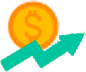
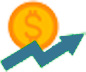
Remodelaçãod e backgrond e paleta de cores

Changed region(s): [[0.0, 0.4444, 0.9767, 1.0]]

diff --git a/index.html b/index.html
@@ -81,32 +81,50 @@
         Os dados podem ser obitidos
       </p>
       <a href="https://www.fundamentus.com.br/" target="_blank"> Clicando Aqui</a>
-      <form>
-        <div class="forms-content">
-          <div class="forms-content-label">
-            <label for="tagAcao">Nome da Ação:</label>
-          </div>
-          <div class="forms-content-input">
-            <input type="text" id="tagAcao" name="tagAcao" value="" placeholder="Ex: WEGE3">
-          </div>
+    </div>
+    <form>
+      <div class="forms-content">
+        <div class="forms-content-label">
+          <label for="tagAcao">Nome da Ação:</label>
         </div>
-        <label for="dy">Dividend yeld (DY):</label>
-        <input type="number" id="" name="" value="" placeholder=""><br>
-        <label for="lpa">Lucro por ação:</label>
-        <input type="number" id="" name="" value="" placeholder=""><br>
-        <label for="pl">Preço por acao/lucro por acao:</label>
-        <input type="number" id="" name="" value="" placeholder=""><br>
-        <label for="vpa">Valor patrimonial da ação:</label>
-        <input type="number" id="" name="" value="" placeholder=""><br>
-        <label for="pvp">Preço da ação/valor patrimonial:</label>
-        <input type="number" id="" name="" value="" placeholder=""><br>
-        <label for="evEbitda">Enterprise value:</label>
-        <input type="number" id="" name="" value="" placeholder=""><br>
-        <input type="submit" value="Submit">
-
-      </form>
-
-
+        <div class="forms-content-input">
+          <input type="text" id="tagAcao" name="tagAcao" value="" placeholder="Ex: WEGE3">
+        </div>
+        <div class="forms-content-label">
+          <label for="tagAcao">Nome da Ação:</label>
+        </div>
+        <div class="forms-content-input">
+          <input type="text" id="tagAcao" name="tagAcao" value="" placeholder="Ex: WEGE3">
+        </div>
+        <div class="forms-content-label">
+          <label for="tagAcao">Nome da Ação:</label>
+        </div>
+        <div class="forms-content-input">
+          <input type="text" id="tagAcao" name="tagAcao" value="" placeholder="Ex: WEGE3">
+        </div>
+        <div class="forms-content-label">
+          <label for="tagAcao">Nome da Ação:</label>
+        </div>
+        <div class="forms-content-input">
+          <input type="text" id="tagAcao" name="tagAcao" value="" placeholder="Ex: WEGE3">
+        </div>
+        <div class="forms-content-label">
+          <label for="tagAcao">Nome da Ação:</label>
+        </div>
+        <div class="forms-content-input">
+          <input type="text" id="tagAcao" name="tagAcao" value="" placeholder="Ex: WEGE3">
+        </div>
+        <div class="forms-content-label">
+          <label for="tagAcao">Nome da Ação:</label>
+        </div>
+        <div class="forms-content-input">
+          <input type="text" id="tagAcao" name="tagAcao" value="" placeholder="Ex: WEGE3">
+        </div>
+        
+      </div>
+    </form>
+    </div>
+    <input type="submit" value="Submit">
     </div>
   </section>
 </body>

diff --git a/styles.css b/styles.css
@@ -47,7 +47,6 @@ body a{
 }
 
 .header-elements-links{
-
   display: flex;
   flex-direction: row;
   width: auto;
@@ -56,19 +55,25 @@ body a{
   font-weight: bold;
   font-size: large;
   align-items: center;
-
-
 }
 
 .header-elements-links a{
   font-family: Arial, Helvetica, sans-serif;
+  color: white;
+
+}
+
+.header-elements-links a:hover{
+
+  cursor: pointer;
+  border-bottom: 1px solid #507590;
 
 }
 
 .about-backgrond{
-  width: 1920%;
-  height: 400px;
-  background-image: url("assets/Sem\ Título-1.png");
+  width: 1200px;
+  height: 370px;
+  background-image: url("assets/Sem\ Título-2.png");
   margin-top: 50px;
   background-repeat: no-repeat;
 }
@@ -76,14 +81,14 @@ body a{
 .about-backgrond-intro{
   display: flex;
   flex-direction: column;
-  font-size: 20px;
+  align-items: start;
+  font-size: 30px;
   font-weight: lighter;
-  padding: 30px;
-  color: black;
+  padding: 40px;
+  color: white;
 }
 
 .about-content{
-
   display: flex;
   flex-direction: column;
   align-items: center;
@@ -111,8 +116,13 @@ body a{
   width: 33.33%;
   height: auto;
   text-align: justify;
-  border: 1px solid #00c5a1;
+  background-color: #507590;
+  border-radius: 8px;
   margin: 10px;
+}
+
+.about-content-concepts-each p {
+  font-size: 16.5px;
 }
 
 label{
@@ -126,8 +136,32 @@ label{
 input{
   width: auto;
   height: 20px;
+  border: 1px solid white;
+  border-radius: 4px;
 }
 
 .forms-header{
   width: 50%;
+}
+
+.forms-content{
+  width: auto;
+  display: flex;
+  flex-direction: row;
+  flex-wrap: wrap;
+
+}
+
+.forms-content-label{
+  display: flex;
+  flex-direction: column;
+  width: 50%;
+
+}
+
+.forms-content-input{
+  display: flex;
+  flex-direction: column;
+  width: 50%
+
 }
